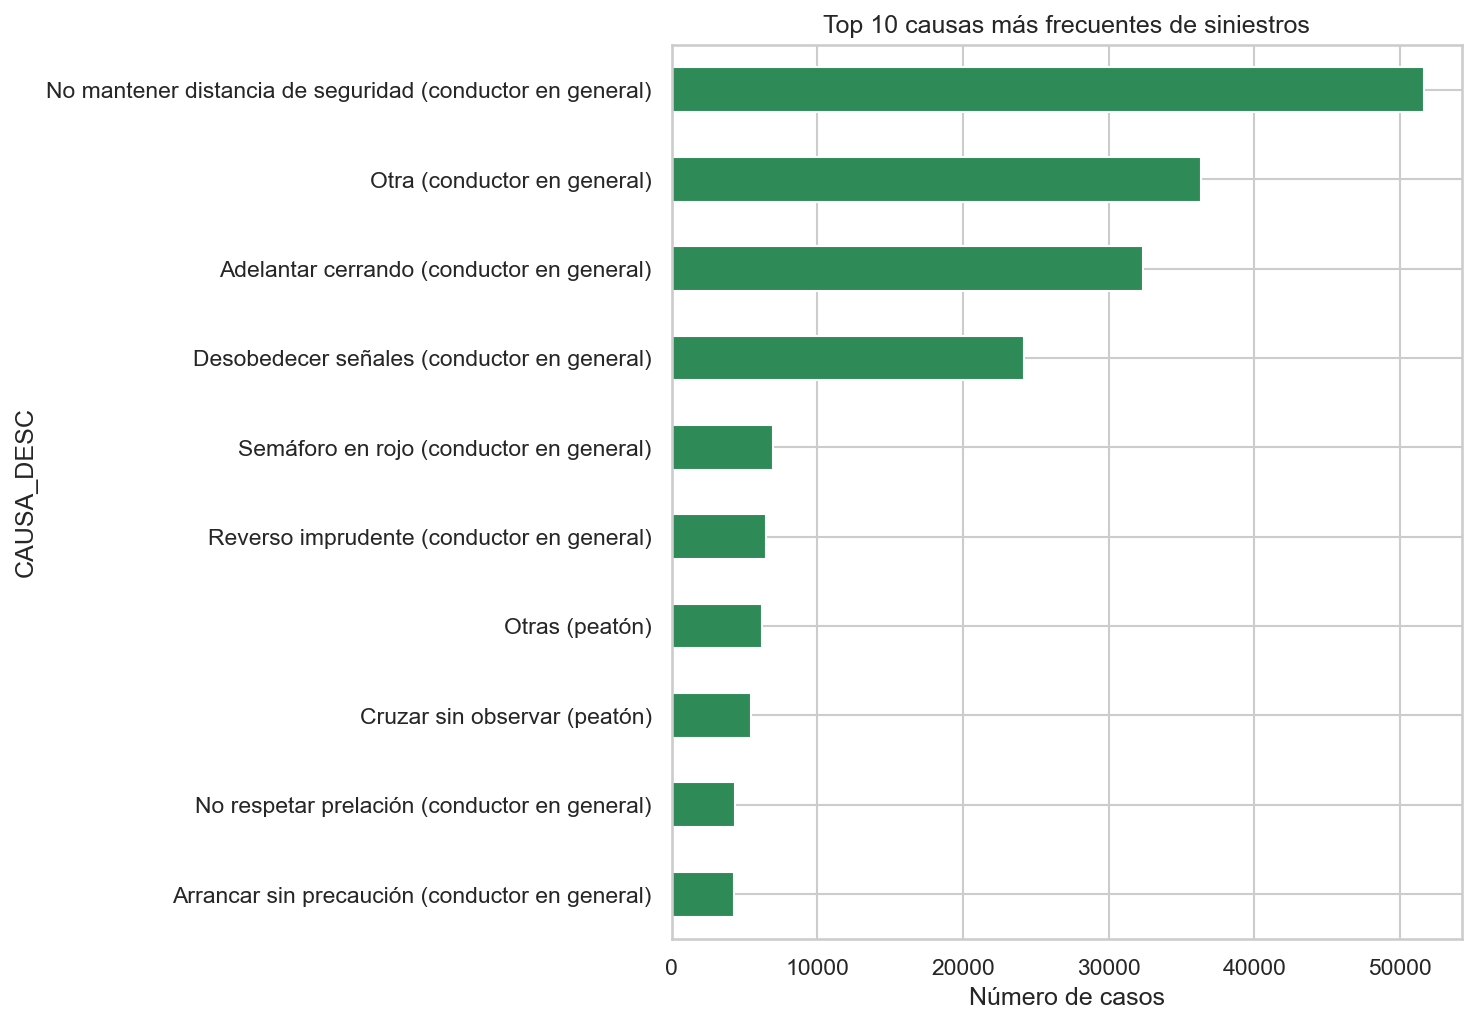
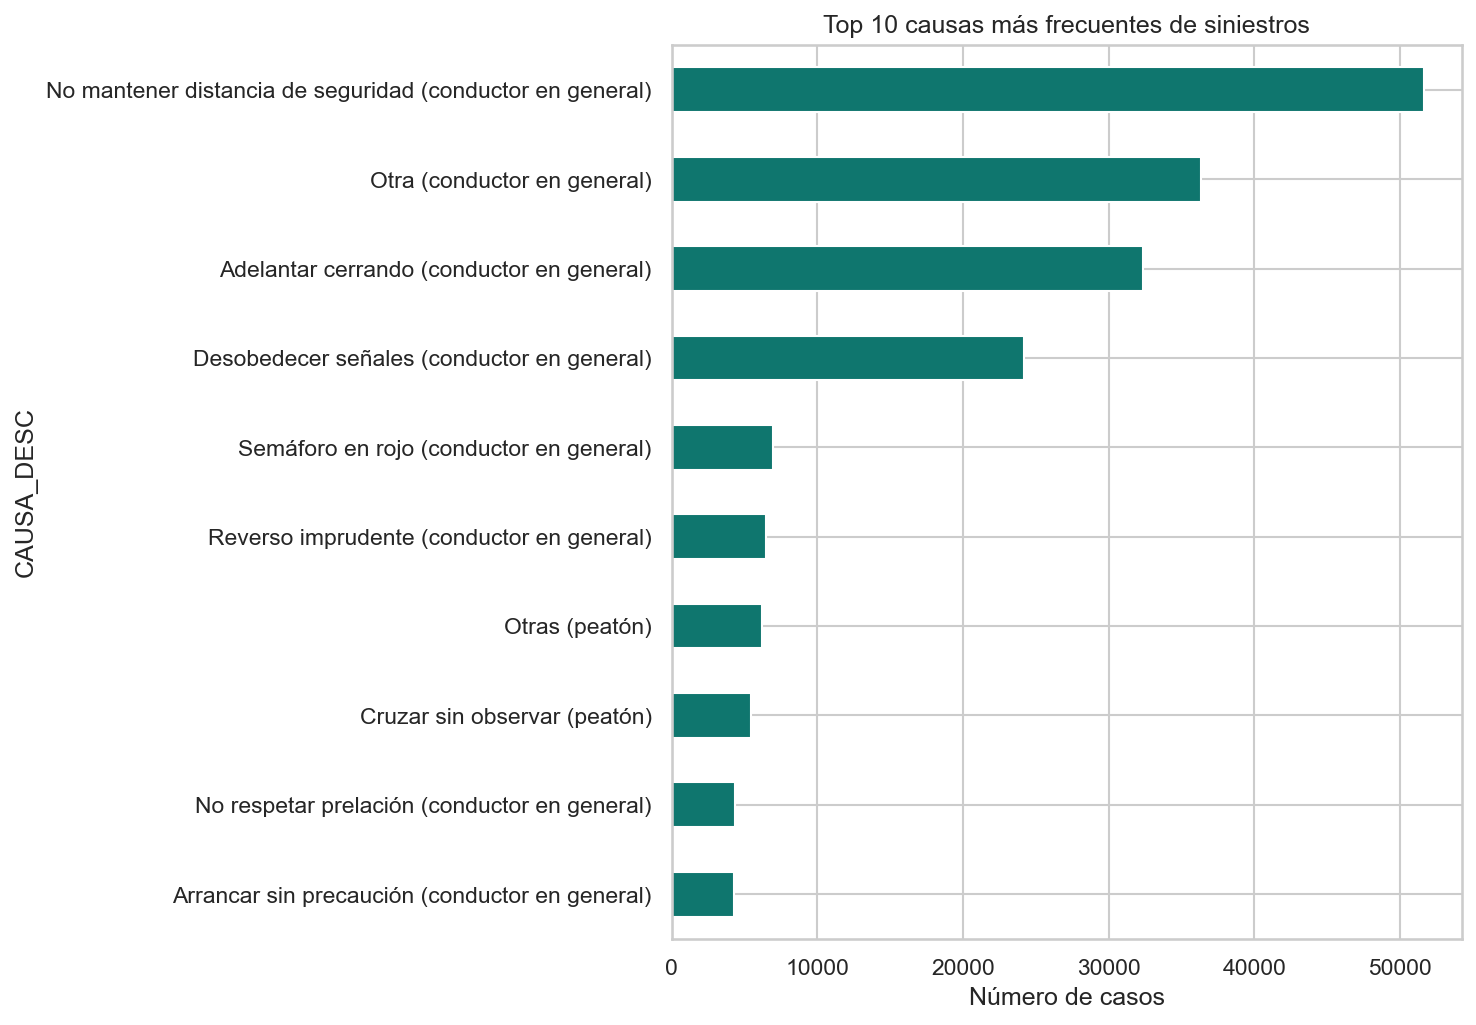
cambio de colores en los graficos generados

diff --git a/src/analysis/analisis_actores.py b/src/analysis/analisis_actores.py
@@ -1,8 +1,8 @@
-# Análisis de las personas involucradas: rol, mortalidad, sexo y edad.
+''' analisis de personas involucradas: rol, mortalidad, sexo y edad '''
 import pandas as pd
 import matplotlib.pyplot as plt
 import seaborn as sns
-from src.graficos import guardar
+from src.graficos import guardar, COLOR_ROJO, COLOR_VERDE
 
 
 def analizar(actores, carpeta):
@@ -52,20 +52,28 @@ def _mayoria_sexo_fallecidos(actores):
 
 def _graficar_actores_afectados(graves, carpeta):
     plt.figure(figsize=(9, 5))
-    graves["CONDICION"].value_counts().plot(kind="bar", color="crimson")
+    graves["CONDICION"].value_counts().plot(
+    kind="bar",
+    color=COLOR_ROJO
+    )
     plt.title("Personas heridas o fallecidas por condición (rol) en el siniestro")
     plt.ylabel("Número de personas")
     guardar("actores_afectados.png", carpeta)
 
 
 def _graficar_distribucion_edad(graves, carpeta):
-    # EDAD viene con tipos mixtos (numero y NULL) en el data set, se fuerza a numérico.
+    # EDAD viene con tipos mixtos (numero y 'NULL') en el data set, se fuerza a numérico.
     graves = graves.copy()
     graves["EDAD"] = pd.to_numeric(graves["EDAD"], errors="coerce")
     edades_validas = graves[(graves["EDAD"] > 0) & (graves["EDAD"] < 100)]
 
     plt.figure(figsize=(9, 5))
-    sns.histplot(edades_validas["EDAD"], bins=30, kde=True, color="teal")
+    sns.histplot(
+    edades_validas["EDAD"],
+    bins=30,
+    kde=True,
+    color=COLOR_VERDE
+)
     plt.title("Distribución de edad de heridos y fallecidos")
     plt.xlabel("Edad")
     guardar("distribucion_edad.png", carpeta)

diff --git a/src/graficos.py b/src/graficos.py
@@ -1,15 +1,22 @@
-"""Utilidades compartidas para generar gráficos y tarjetas."""
+""" utilidades compartidas para generar graficos y tarjetas"""
 
 import os
 
 import matplotlib.pyplot as plt
 import seaborn as sns
 
+# Paleta de colores del proyecto
+COLOR_FONDO = "#F8FAFC"
+COLOR_AZUL = "#2563EB"
+COLOR_VERDE = "#0F766E"
+COLOR_ROJO = "#DC2626"
+COLOR_TEXTO = "#1F2937"
+
 sns.set_theme(style="whitegrid")
 
 
 def guardar(nombre_archivo, carpeta):
-    """Ajusta el layout y guarda la figura actual de matplotlib."""
+    """ ajusta el layout y guarda la figura actual de matplotlib """
 
     os.makedirs(carpeta, exist_ok=True)
 
@@ -23,7 +30,7 @@ def guardar(nombre_archivo, carpeta):
 
 
 def generar_tarjetas(metricas, carpeta):
-    """Genera una imagen con tarjetas de indicadores principales."""
+    """ genera una imagen con tarjetas de indicadores principales """
 
     fig, axes = plt.subplots(1, 5, figsize=(16, 3.5))
 

diff --git a/src/analysis/analisis_localidades.py b/src/analysis/analisis_localidades.py
@@ -1,6 +1,6 @@
-# Análisis geográfico: qué localidades concentran más siniestros y cuáles son más letales
+''' analisis geografico: que localidades concentran mas siniestros y cuales son mas letales '''
 import matplotlib.pyplot as plt
-from src.graficos import guardar
+from src.graficos import guardar, COLOR_AZUL
 from src.config import MIN_ACCIDENTES_PARA_TASA
 
 
@@ -17,7 +17,9 @@ def analizar(siniestros, carpeta):
     conclusiones.append(_localidad_mas_letal(siniestros, por_localidad))
 
     plt.figure(figsize=(9, 7))
-    por_localidad.head(10).plot(kind="barh", color="darkorange")
+    por_localidad.head(10).plot(
+    kind="barh",
+    color=COLOR_AZUL)
     plt.title("Top 10 localidades con más siniestros")
     plt.xlabel("Número de accidentes")
     plt.gca().invert_yaxis()

diff --git a/src/analysis/analisis_vehiculos.py b/src/analysis/analisis_vehiculos.py
@@ -1,13 +1,15 @@
-"""Análisis de los tipos de vehículo más involucrados en siniestros."""
+""" analisis de los tipos de vehiculo más involucrados en siniestros """
 import matplotlib.pyplot as plt
-from src.graficos import guardar
+from src.graficos import guardar, COLOR_AZUL
 
 
 def analizar(vehiculos, carpeta):
     top_clase = vehiculos["CLASE_DESC"].value_counts().head(10)
 
     plt.figure(figsize=(10, 7))
-    top_clase.plot(kind="barh", color="mediumpurple")
+    top_clase.plot(
+    kind="barh",
+    color=COLOR_AZUL)
     plt.title("Top 10 tipos de vehículo involucrados en siniestros")
     plt.xlabel("Número de casos")
     plt.gca().invert_yaxis()

diff --git a/src/analysis/analisis_causas.py b/src/analysis/analisis_causas.py
@@ -1,14 +1,16 @@
-"""Análisis de las causas (hipótesis) más frecuentes de los siniestros."""
+""" (hipótesis) de las causas mas frecuentes de los siniestros."""
 
 import matplotlib.pyplot as plt
-from src.graficos import guardar
+from src.graficos import guardar, COLOR_VERDE
 
 
 def analizar(hipotesis, carpeta):
     top_causas = hipotesis["CAUSA_DESC"].value_counts().head(10)
 
     plt.figure(figsize=(10, 7))
-    top_causas.plot(kind="barh", color="seagreen")
+    top_causas.plot(
+    kind="barh",
+    color=COLOR_VERDE)
     plt.title("Top 10 causas más frecuentes de siniestros")
     plt.xlabel("Número de casos")
     plt.gca().invert_yaxis()

diff --git a/src/analysis/analisis_temporal.py b/src/analysis/analisis_temporal.py
@@ -1,7 +1,7 @@
-"""Patrones temporales: evolución anual, hora del día y día de la semana."""
+""" patrones temporales: evolucion anual, hora y dia de la semana."""
 
 import matplotlib.pyplot as plt
-from src.graficos import guardar
+from src.graficos import guardar, COLOR_AZUL, COLOR_ROJO, COLOR_VERDE
 
 DIAS_ES = {"Monday": "Lunes", "Tuesday": "Martes", "Wednesday": "Miércoles",
            "Thursday": "Jueves", "Friday": "Viernes", "Saturday": "Sábado", "Sunday": "Domingo"}
